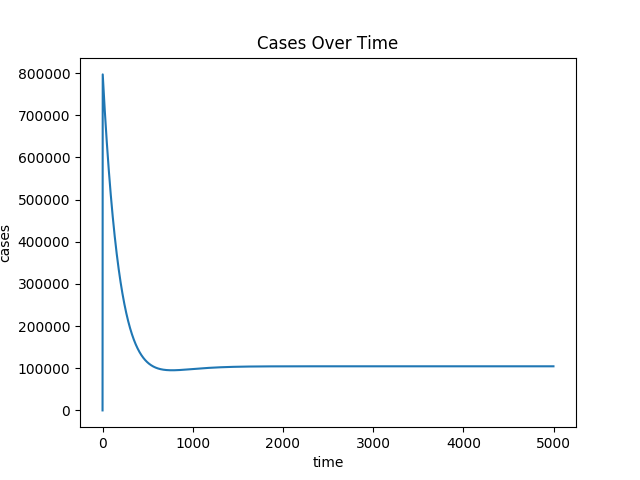
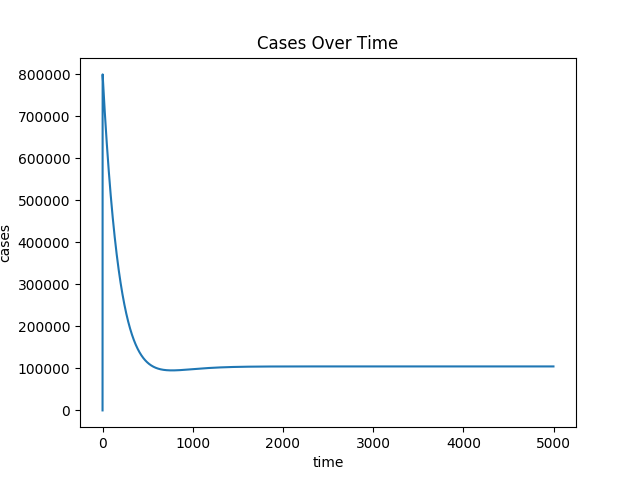
changed parameter

diff --git a/Examples/model.py b/Examples/model.py
@@ -192,7 +192,7 @@ def run_model(x, filename):
     json_object = json.load(file)
     file.close()
 
-    json_object["beta"] = .91
+    json_object["beta"] = x
         
     file = open(filename, "w")
     json.dump(json_object, file)
@@ -252,7 +252,7 @@ def main(opts):
         dates = data[:,0]
         new_reported = data[:,3]
 
-        ans = run_model(0.91, opts['paramfile'])
+        ans = run_model(.95, opts['paramfile'])
         print(ans)
 
         plot(ans, "./outputs")
